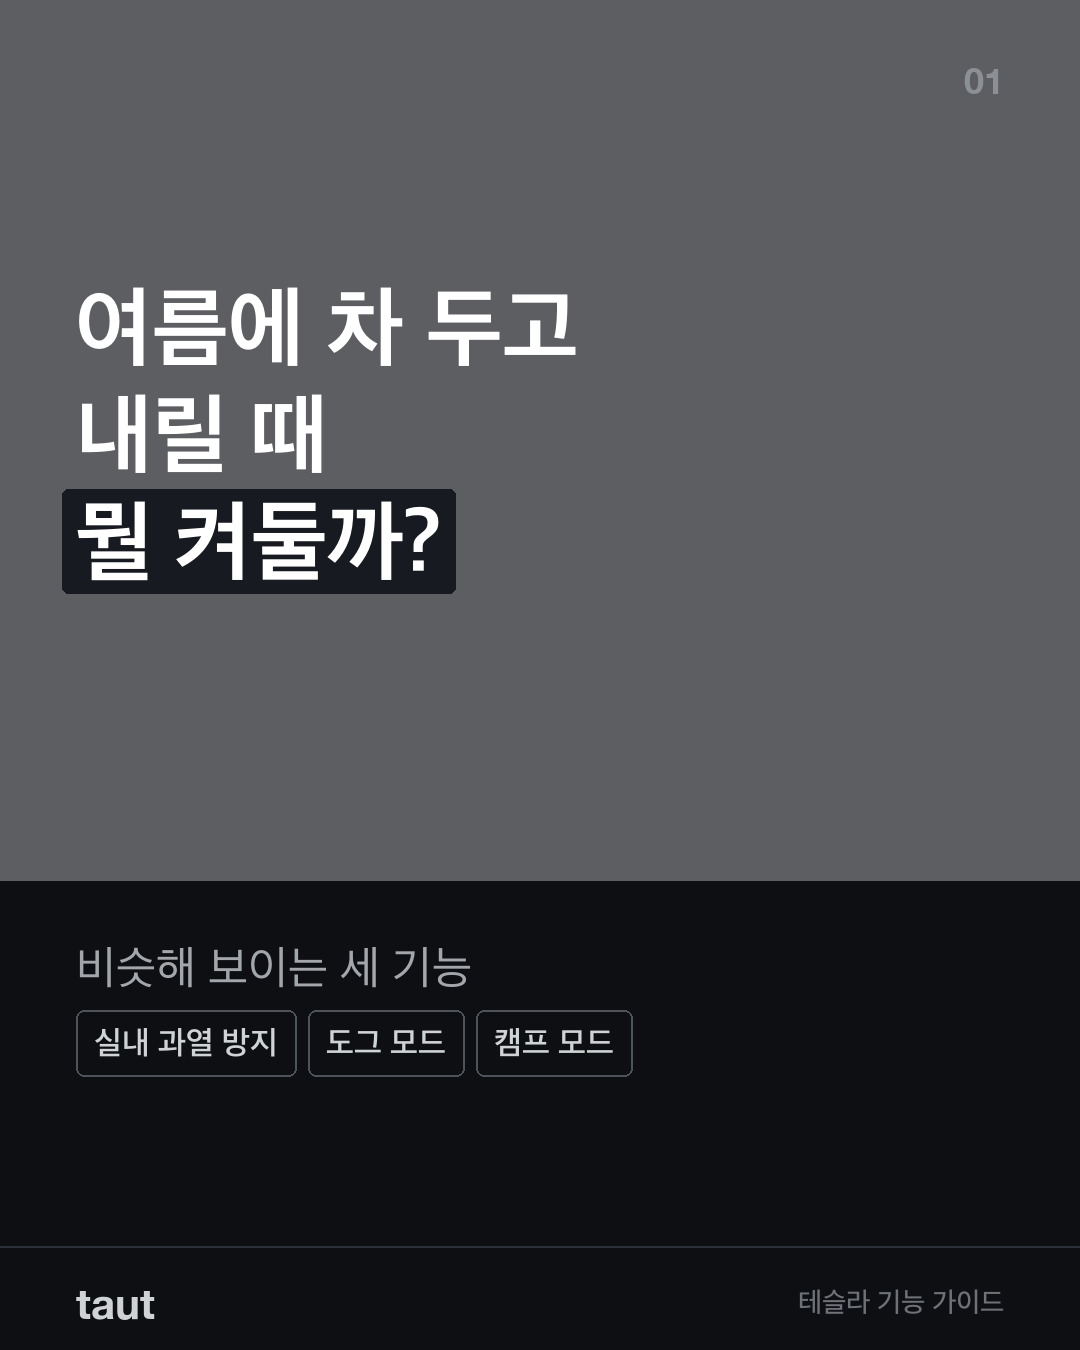
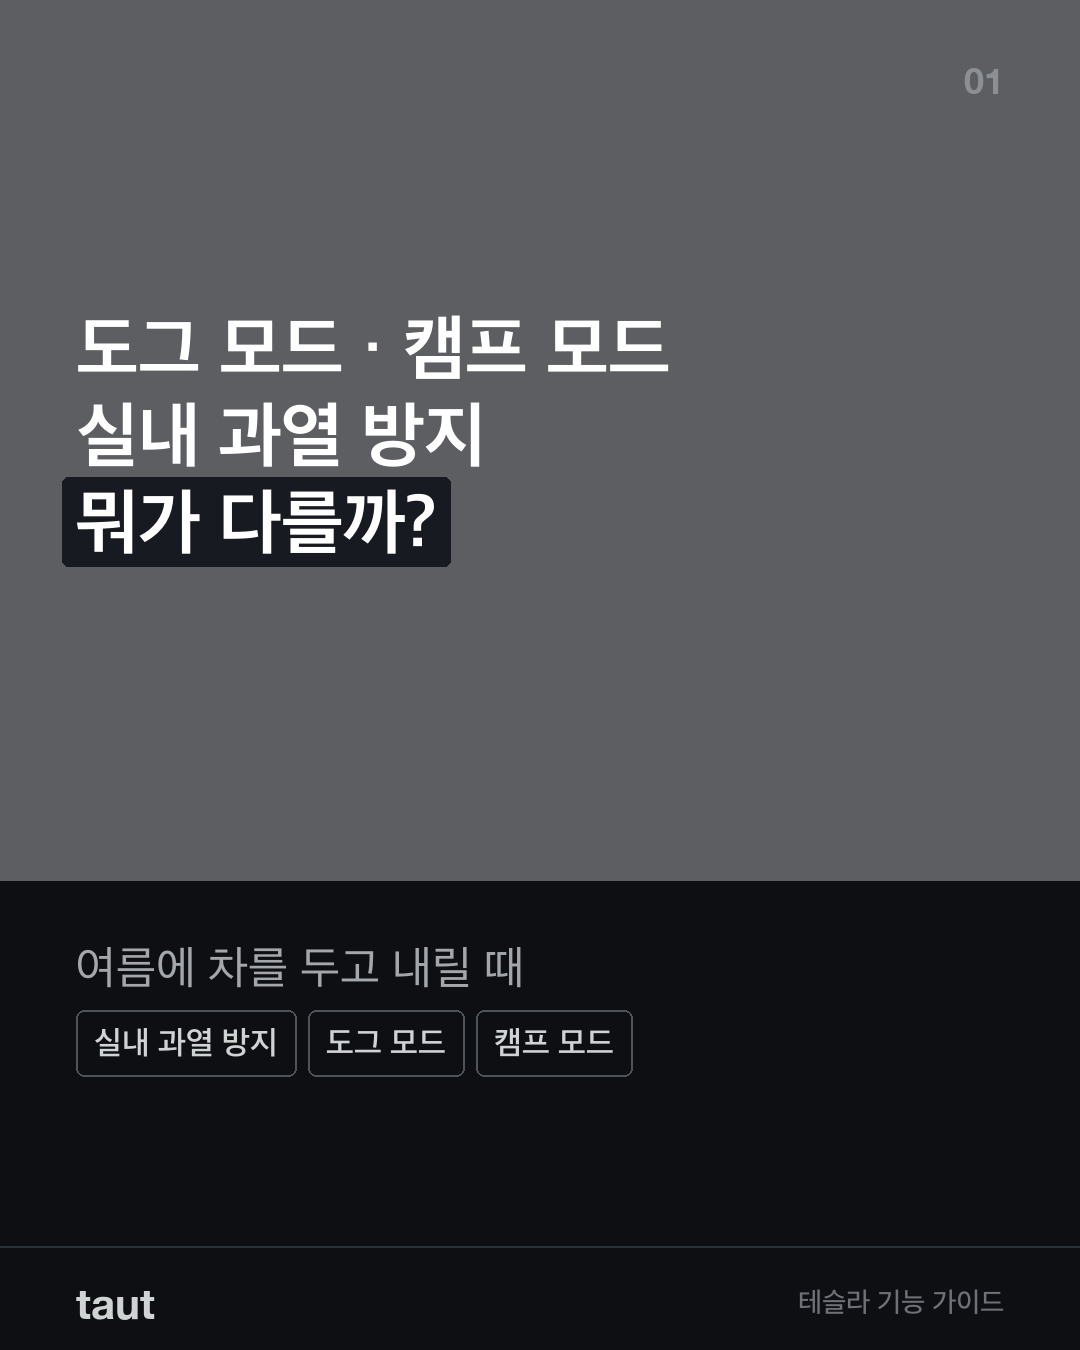
taut: 8편 제목 교체 — 기능 이름을 제목에 드러냄
"여름에 차 두고 내릴 때 뭘 켜둘까?"는 세 기능을 이미 아는 사람한테만 통했다.
처음 보는 사람은 뭘 켠다는 건지 알 수 없다.

→ "도그 모드 · 캠프 모드 · 실내 과열 방지, 뭐가 다를까?"

셋을 헷갈리는 게 실제 독자의 문제고, 카드 내용도 그 구분이다.
메뉴에서 본 적 있는 이름을 제목에 그대로 넣었다.

Changed region(s): [[0.0611, 0.2178, 0.6111, 0.4667], [0.0611, 0.6844, 0.4889, 0.7467]]

diff --git a/taut/index.html b/taut/index.html
@@ -192,15 +192,15 @@
 
   <section class="ep">
     <div class="ep-no">기능</div>
-    <h2>여름에 차 두고 내릴 때 뭘 켜둘까?</h2>
-    <p class="meta">비슷해 보이는 세 기능 · 카드 6장</p>
+    <h2>도그 모드 · 캠프 모드 · 실내 과열 방지, 뭐가 다를까?</h2>
+    <p class="meta">여름에 차를 두고 내릴 때 · 카드 6장</p>
     <div class="cards">
-      <img src="cards/8/01.png" width="1080" height="1350" alt="여름에 차 두고 내릴 때 뭘 켜둘까? 1번째 카드" loading="lazy">
-      <img src="cards/8/02.png" width="1080" height="1350" alt="여름에 차 두고 내릴 때 뭘 켜둘까? 2번째 카드" loading="lazy">
-      <img src="cards/8/03.png" width="1080" height="1350" alt="여름에 차 두고 내릴 때 뭘 켜둘까? 3번째 카드" loading="lazy">
-      <img src="cards/8/04.png" width="1080" height="1350" alt="여름에 차 두고 내릴 때 뭘 켜둘까? 4번째 카드" loading="lazy">
-      <img src="cards/8/05.png" width="1080" height="1350" alt="여름에 차 두고 내릴 때 뭘 켜둘까? 5번째 카드" loading="lazy">
-      <img src="cards/8/06.png" width="1080" height="1350" alt="여름에 차 두고 내릴 때 뭘 켜둘까? 6번째 카드" loading="lazy">
+      <img src="cards/8/01.png" width="1080" height="1350" alt="도그 모드 캠프 모드 실내 과열 방지 1번째 카드" loading="lazy">
+      <img src="cards/8/02.png" width="1080" height="1350" alt="도그 모드 캠프 모드 실내 과열 방지 2번째 카드" loading="lazy">
+      <img src="cards/8/03.png" width="1080" height="1350" alt="도그 모드 캠프 모드 실내 과열 방지 3번째 카드" loading="lazy">
+      <img src="cards/8/04.png" width="1080" height="1350" alt="도그 모드 캠프 모드 실내 과열 방지 4번째 카드" loading="lazy">
+      <img src="cards/8/05.png" width="1080" height="1350" alt="도그 모드 캠프 모드 실내 과열 방지 5번째 카드" loading="lazy">
+      <img src="cards/8/06.png" width="1080" height="1350" alt="도그 모드 캠프 모드 실내 과열 방지 6번째 카드" loading="lazy">
     </div>
     <p class="hint">← 옆으로 밀면 다음 카드</p>
     <details><summary>캡션 보기</summary><p class="todo">캡션은 아직 안 썼다. 카드만 나온 상태다.</p></details>
